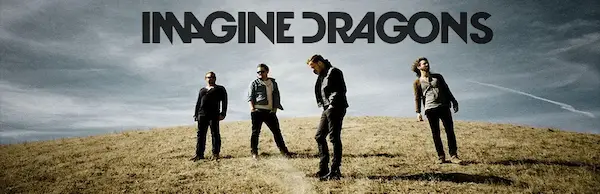
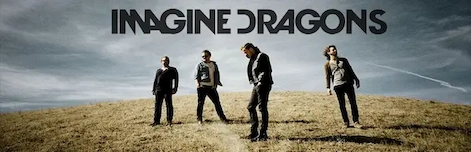
..

diff --git a/project/index.html b/project/index.html
@@ -41,7 +41,7 @@
     </header>
     <main class="Home">
 
-        <img class="hero" src="images/heroImg.webp" alt="Principal image. band Imagen Dragons" width="930" height="300" loading="lazy">
+        <img class="hero" src="images/heroImg2.webp" alt="Principal image. band Imagen Dragons" width="930" height="300" loading="lazy">
         <section class="introduccion">
             <h2>About the Band</h2>
             <p>Imagine Dragons is a globally acclaimed rock band formed in Las Vegas. Known for their powerful anthems,
